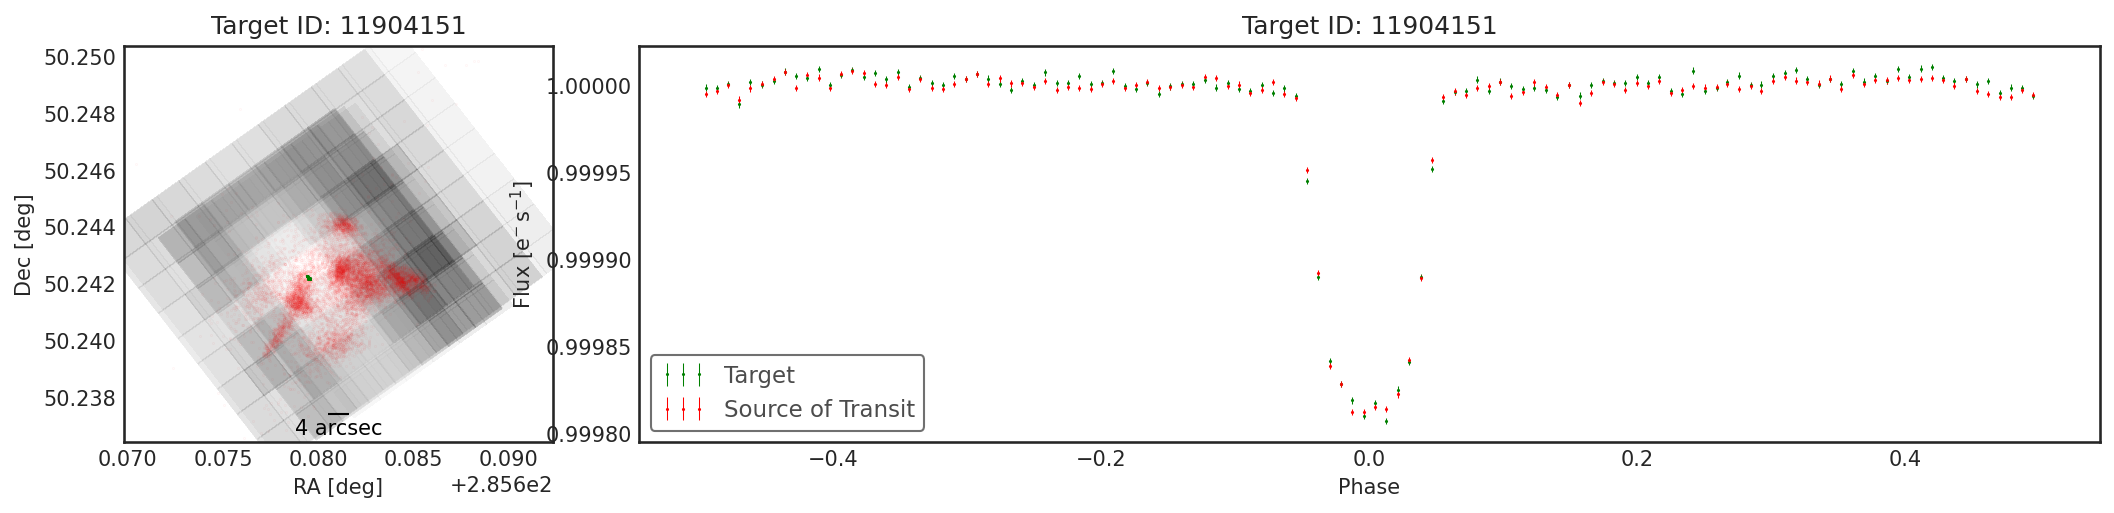
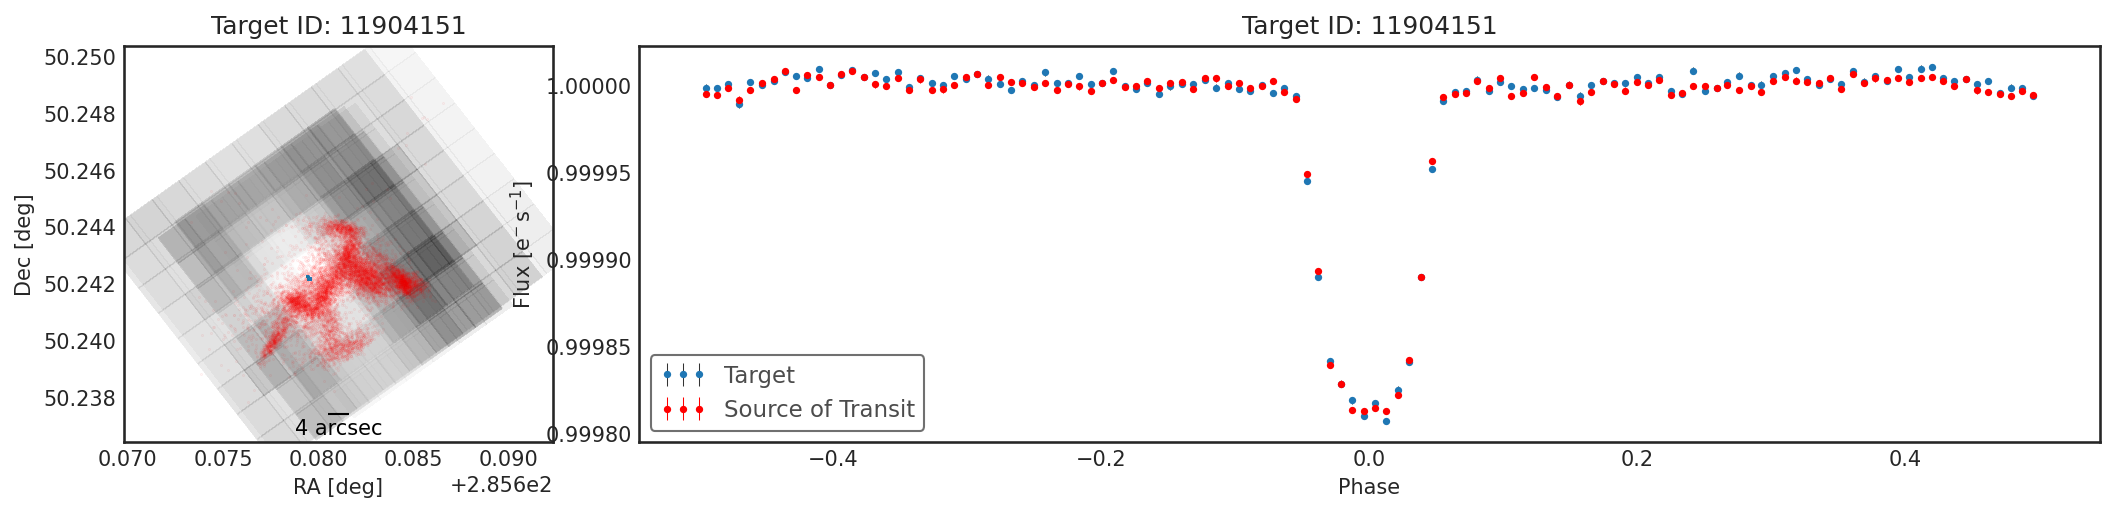
updates

diff --git a/contaminante/utils.py b/contaminante/utils.py
@@ -459,12 +459,12 @@ def calculate_contamination(targetid, period, t0, duration, mission='kepler', pl
             #        import pdb;pdb.set_trace()
                 if gaia:
                     plot_gaia(tpfs, ax=ax)
-                ax.scatter(np.hstack(ra_target), np.hstack(dec_target), c='g', marker='.', s=0.1, label='Target', zorder=11, alpha=1/len(tpfs))
-                ax.scatter(np.hstack(coords_ra), np.hstack(coords_dec), c='r', marker='.', s=0.1, label='Source Of Transit', zorder=10, alpha=0.1)
+                ax.scatter(np.hstack(ra_target), np.hstack(dec_target), c='C0', marker='.', s=2, label='Target', zorder=11, alpha=1/len(tpfs))
+                ax.scatter(np.hstack(coords_ra), np.hstack(coords_dec), c='r', marker='.', s=1, label='Source Of Transit', zorder=10, alpha=0.1)
     #            confidence_ellipse(ras, decs, ax,
     #                alpha=0.5, facecolor='pink', edgecolor='r', zorder=5)
                 # confidence_ellipse(np.asarray(ra_target), np.asarray(dec_target), ax,
-                #     alpha=0.5, facecolor='lime', edgecolor='g', zorder=5)
+                #     alpha=0.5, facecolor='lime', edgecolor='C0', zorder=5)
 
                 ax.set_xlim(*xlim)
                 ax.set_ylim(*ylim)
@@ -493,12 +493,12 @@ def calculate_contamination(targetid, period, t0, duration, mission='kepler', pl
                 if bin_points == None:
                     bin_points = int(((target.time[-1] - target.time[0])/(4*period)))
                 if bin_points > 1:
-                    target.fold(period, t0).bin(bin_points, method='median').errorbar(c='g', label="Target", ax=ax, marker='.')
+                    target.fold(period, t0).bin(bin_points, method='median').errorbar(c='C0', label="Target", ax=ax, marker='.', markersize=2)
                     if contaminator is not None:
-                        contaminator.fold(period, t0).bin(bin_points, method='median').errorbar(ax=ax, c='r', marker='.', label="Source of Transit")
+                        contaminator.fold(period, t0).bin(bin_points, method='median').errorbar(ax=ax, c='r', marker='.', label="Source of Transit", markersize=2)
                 else:
-                    target.fold(period, t0).errorbar(c='g', label="Target", ax=ax, marker='.')
+                    target.fold(period, t0).errorbar(c='C0', label="Target", ax=ax, marker='.', markersize=2)
                     if contaminator is not None:
-                        contaminator.fold(period, t0).errorbar(ax=ax, c='r', marker='.', label="Source of Transit")
+                        contaminator.fold(period, t0).errorbar(ax=ax, c='r', marker='.', label="Source of Transit", markersize=2)
         return fig, res
     return res

diff --git a/contaminante/version.py b/contaminante/version.py
@@ -1,3 +1,3 @@
 # It is important to store the version number in a separate file
 # so that we can read it from setup.py without importing the package
-__version__ = "0.1.dev"
+__version__ = "0.2"
